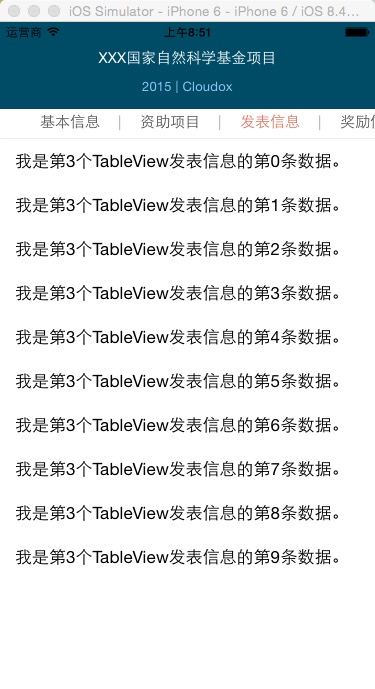
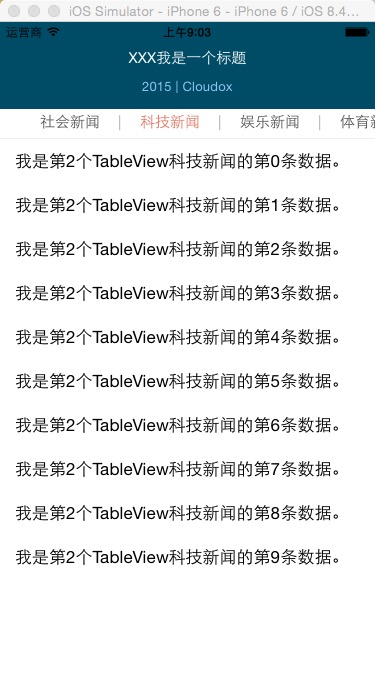
修改文字和效果图

diff --git a/ScrollTableDemo/ScrollTableView.m b/ScrollTableDemo/ScrollTableView.m
@@ -38,7 +38,7 @@
     
     // 标题label
     UILabel *titleLabel = [[UILabel alloc] initWithFrame:CGRectMake(10, 26, [UIScreen mainScreen].bounds.size.width - 20, 16)];
-    titleLabel.text = @"XXX国家自然科学基金项目";
+    titleLabel.text = @"XXX我是一个标题";
     titleLabel.backgroundColor = [UIColor clearColor];
     titleLabel.textColor = [UIColor whiteColor];
     titleLabel.textAlignment = NSTextAlignmentCenter;
@@ -84,7 +84,7 @@
     self.buttonScrollView.bounces = NO;// 到边界不弹回
     self.buttonScrollView.showsHorizontalScrollIndicator = NO;// 不显示横向滚动条
     
-    self.btnTitleArray = [[NSMutableArray alloc] initWithObjects:@"基本信息", @"资助项目", @"发表信息", @"奖励信息", nil];
+    self.btnTitleArray = [[NSMutableArray alloc] initWithObjects:@"社会新闻", @"科技新闻", @"娱乐新闻", @"体育新闻", nil];
     
     self.btnArray = [[NSMutableArray alloc] init];
     

diff --git a/ScrollTableDemo/ViewController.m b/ScrollTableDemo/ViewController.m
@@ -42,7 +42,7 @@
     
     // 标题label
     UILabel *titleLabel = [[UILabel alloc] initWithFrame:CGRectMake(10, 26, [UIScreen mainScreen].bounds.size.width - 20, 16)];
-    titleLabel.text = @"XXX国家自然科学基金项目";
+    titleLabel.text = @"XXX我是一个标题";
     titleLabel.backgroundColor = [UIColor clearColor];
     titleLabel.textColor = [UIColor whiteColor];
     titleLabel.textAlignment = NSTextAlignmentCenter;
@@ -87,7 +87,7 @@
     self.buttonScrollView.bounces = NO;// 到边界不弹回
     self.buttonScrollView.showsHorizontalScrollIndicator = NO;// 不显示横向滚动条
     
-    self.btnTitleArray = [[NSMutableArray alloc] initWithObjects:@"基本信息", @"资助项目", @"发表信息", @"奖励信息", nil];
+    self.btnTitleArray = [[NSMutableArray alloc] initWithObjects:@"社会新闻", @"科技新闻", @"娱乐新闻", @"体育新闻", nil];
     
     self.btnArray = [[NSMutableArray alloc] init];
     
